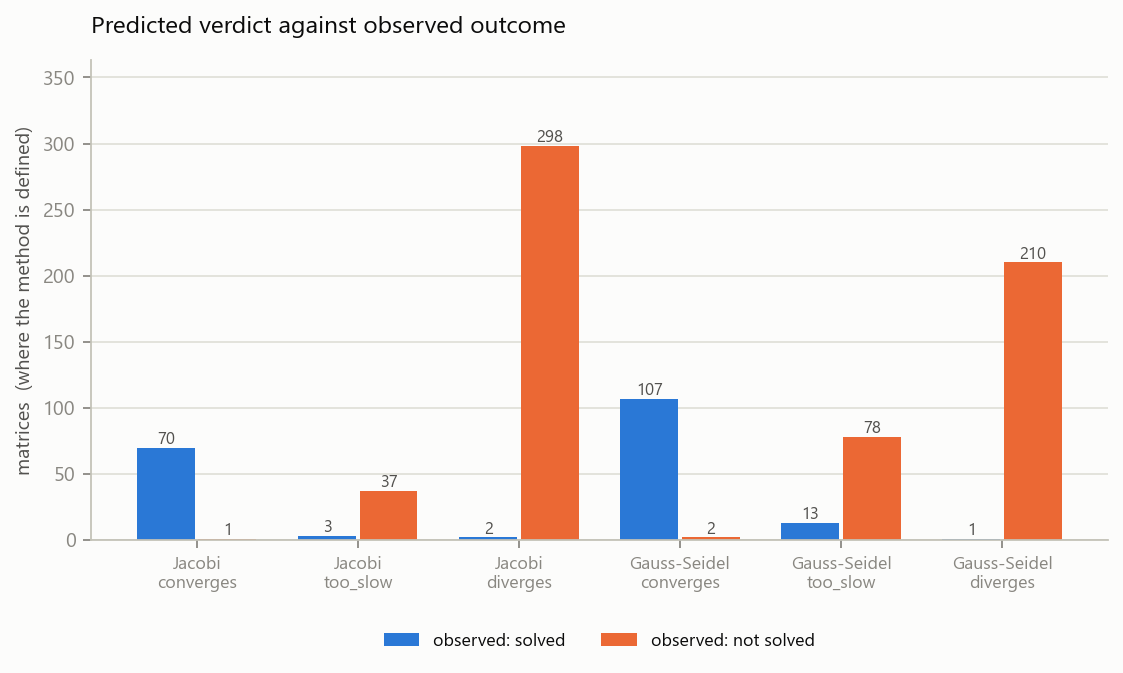
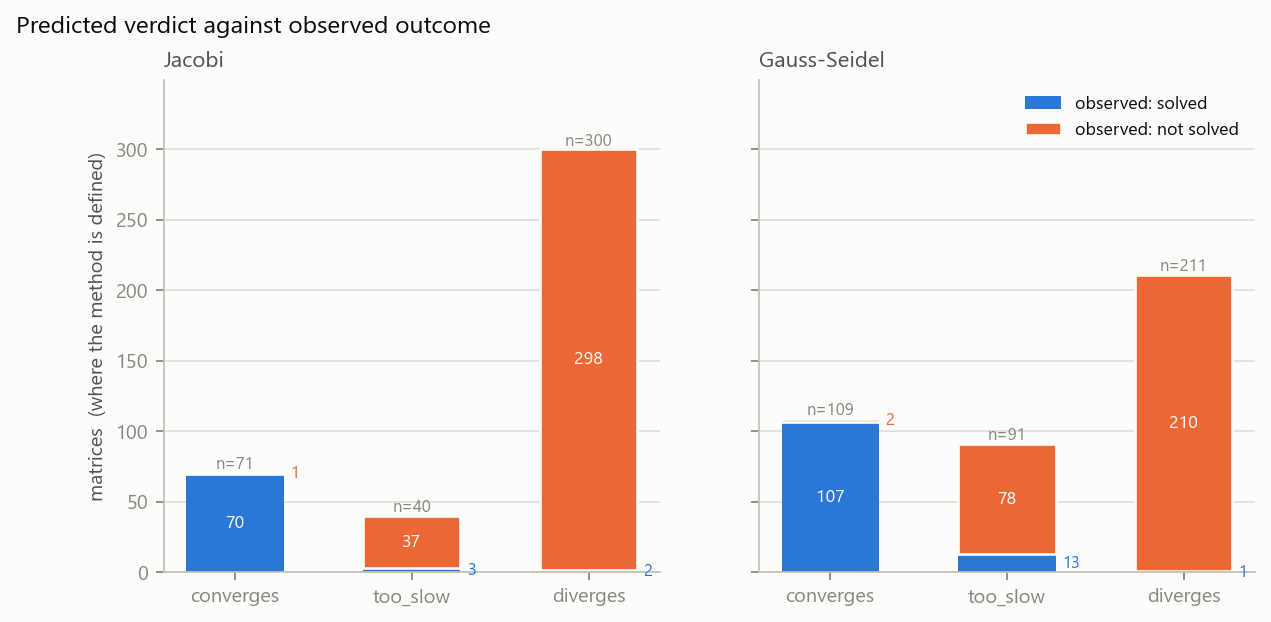
Redraw the prediction chart so the bars are unambiguous
Side-by-side pairs failed the reader: where one bar is near zero the pair visually breaks
apart and the label stops obviously belonging to either group, so it was not clear which
bar went with which method and verdict.

Now one panel per method, one stacked bar per verdict. The bar height is how many
matrices theory placed in that verdict, the split inside it is what actually happened,
and n is printed on top. A segment too thin to hold a label gets its number beside the
bar in the segment's own colour rather than inside it in white, where it was invisible.

The chart reads directly as the accuracy of predicting convergence before solving:
Jacobi 70 of 71 for 'converges' and 298 of 300 for 'diverges'; Gauss-Seidel 107 of 109
and 210 of 211. The 'too_slow' column is the case the textbook criterion cannot state at
all, and it holds 40 and 91 matrices respectively.

diff --git a/tools/make_figures.py b/tools/make_figures.py
@@ -352,21 +352,47 @@ def fig_prediction(res, spec):
         return
     d = pd.DataFrame(rows, columns=["method", "verdict", "solved", "not_solved"])
 
-    fig, ax = plt.subplots(figsize=(8.2, 3.9))
-    x = np.arange(len(d))
-    groups = [ax.bar(x - 0.19, d.solved, width=0.36, color=C1, label="observed: solved"),
-              ax.bar(x + 0.19, d.not_solved, width=0.36, color=C2, label="observed: not solved")]
-    ax.set_ylim(0, max(d.solved.max(), d.not_solved.max()) * 1.22)
-    for bars in groups:
-        for bar in bars:
-            h = bar.get_height()
-            ax.text(bar.get_x() + bar.get_width() / 2, h, f"{int(h)}",
-                    ha="center", va="bottom", fontsize=7.5, color=INK2)
-    ax.set_xticks(x, [f"{m}\n{v}" for m, v in zip(d.method, d.verdict)], fontsize=8)
-    ax.set_ylabel("matrices  (where the method is defined)")
-    ax.set_title("Predicted verdict against observed outcome", loc="left", pad=12)
-    ax.legend(loc="upper center", bbox_to_anchor=(0.5, -0.16), ncols=2)
-    ax.grid(axis="x", visible=False)
+    # One panel per method and a stacked bar per verdict. Side-by-side pairs were
+    # ambiguous: where one bar is near zero the pair visually breaks apart and the
+    # label stops obviously belonging to either. Stacking makes the bar height the
+    # number of matrices predicted that way, and the split inside it the outcome.
+    methods = list(dict.fromkeys(d.method))
+    fig, axes = plt.subplots(1, len(methods), figsize=(4.4 * len(methods), 4.0),
+                             sharey=True)
+    axes = np.atleast_1d(axes)
+    order = ["converges", "too_slow", "diverges"]
+    for ax, meth in zip(axes, methods):
+        sub = d[d.method == meth].set_index("verdict").reindex(order).fillna(0)
+        x = np.arange(len(order))
+        ax.bar(x, sub.solved, width=0.55, color=C1, label="observed: solved")
+        ax.bar(x, sub.not_solved, width=0.55, bottom=sub.solved, color=C2,
+               edgecolor=SURFACE, linewidth=1.2, label="observed: not solved")
+        span = d.groupby("method")[["solved", "not_solved"]].sum().sum(axis=1).max()
+        for xi, r in zip(x, sub.itertuples()):
+            total = r.solved + r.not_solved
+            for value, base, colour in ((r.solved, 0, C1),
+                                        (r.not_solved, r.solved, C2)):
+                if not value:
+                    continue
+                # A sliver cannot hold a label. Below a few percent of the axis the
+                # number goes beside the bar in the segment's own colour instead of
+                # inside it in white, where it was invisible.
+                if value < 0.045 * span:
+                    ax.text(xi + 0.31, base + value / 2, f"{int(value)}", ha="left",
+                            va="center", fontsize=7.5, color=colour)
+                else:
+                    ax.text(xi, base + value / 2, f"{int(value)}", ha="center",
+                            va="center", fontsize=8, color=SURFACE)
+            ax.text(xi, total, f"n={int(total)}", ha="center", va="bottom",
+                    fontsize=7.5, color=MUTED)
+        ax.set_xticks(x, order, fontsize=9)
+        ax.set_title(meth, fontsize=10, color=INK2, loc="left")
+        ax.grid(axis="x", visible=False)
+    axes[0].set_ylabel("matrices  (where the method is defined)")
+    axes[0].set_ylim(0, d.groupby("method")[["solved", "not_solved"]].sum().sum(axis=1).max() * 0.85)
+    fig.suptitle("Predicted verdict against observed outcome", x=0.02, ha="left",
+                 fontsize=11, color=INK)
+    axes[-1].legend(loc="upper right", fontsize=8)
     save(fig, "09_prediction_vs_observation",
          "'too_slow' is the case the textbook criterion cannot express: rho < 1, so "
          "convergence is guaranteed, but not within any usable iteration budget.")
